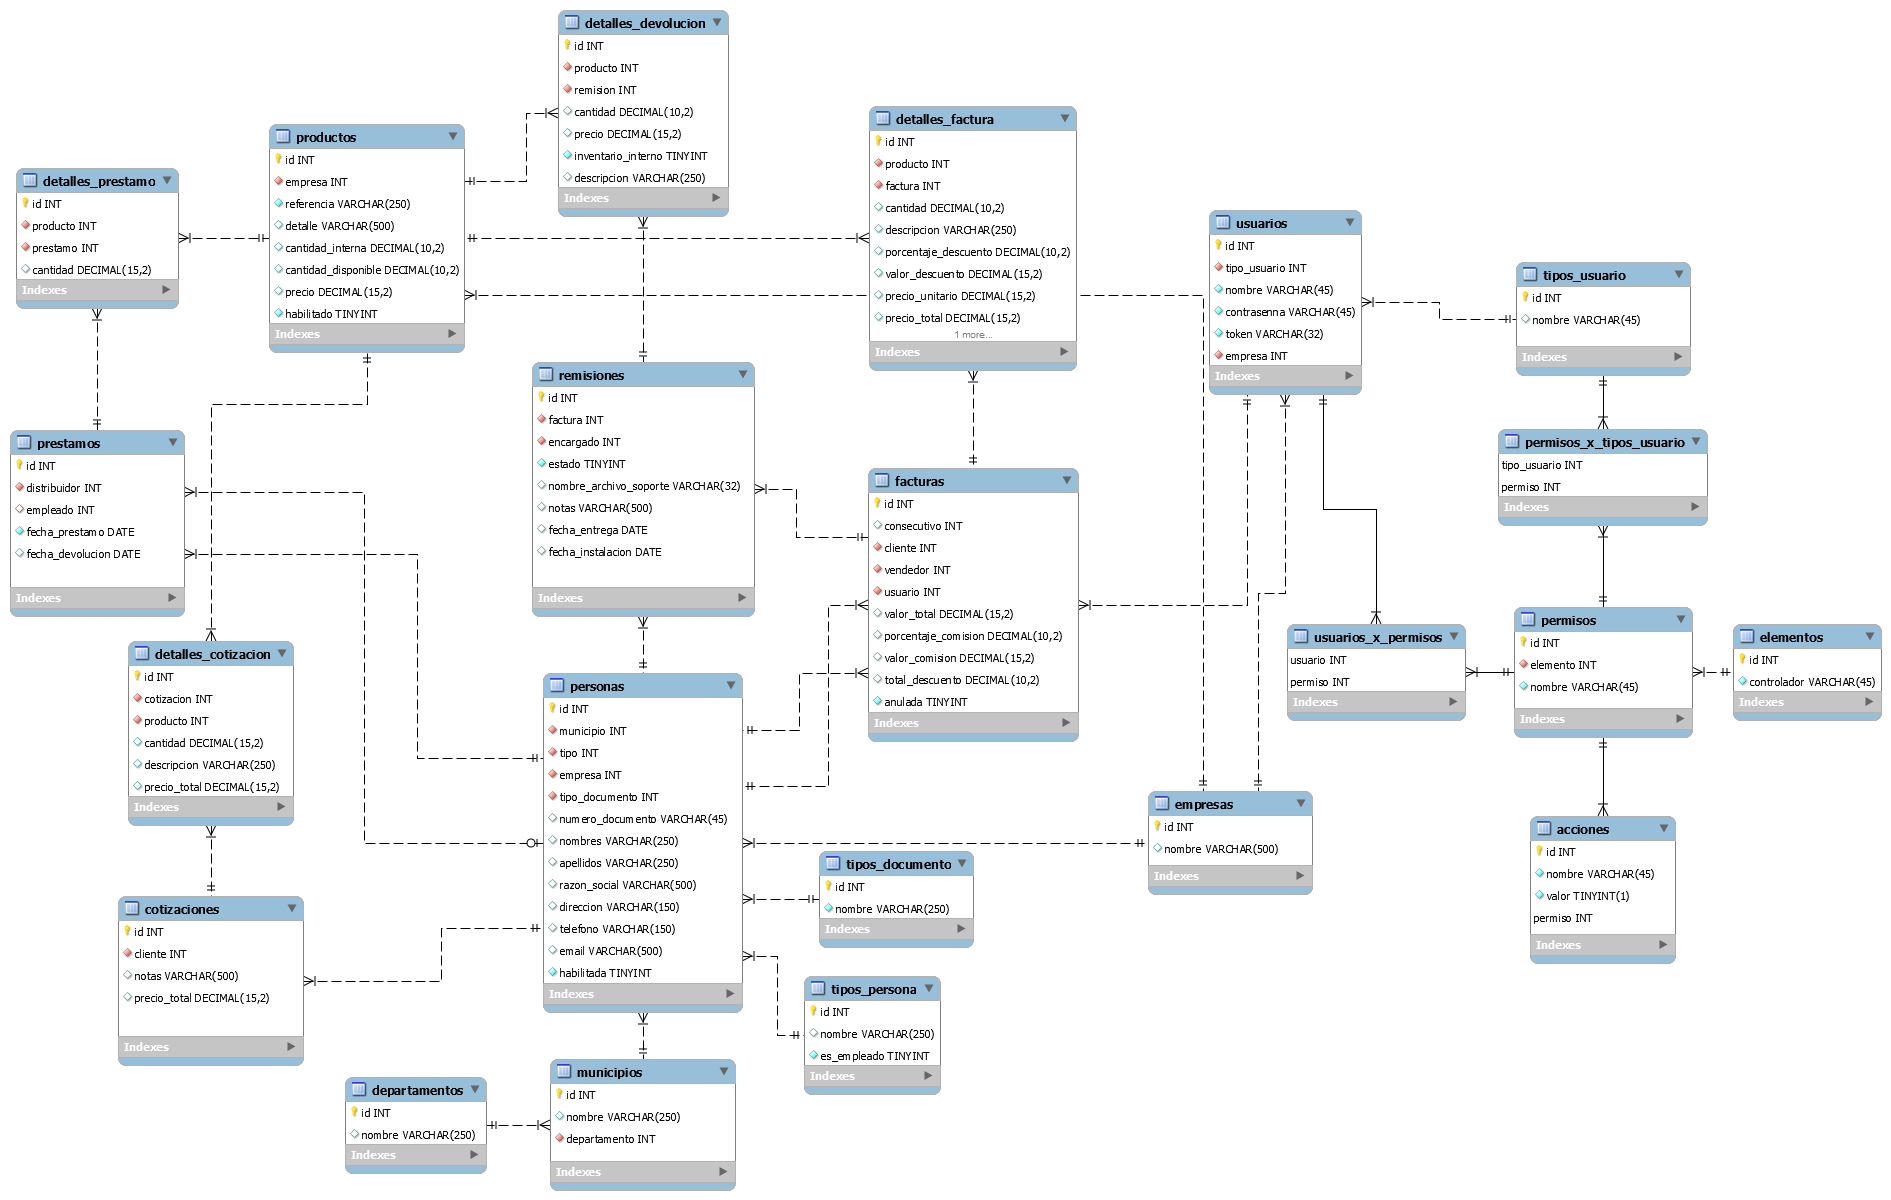
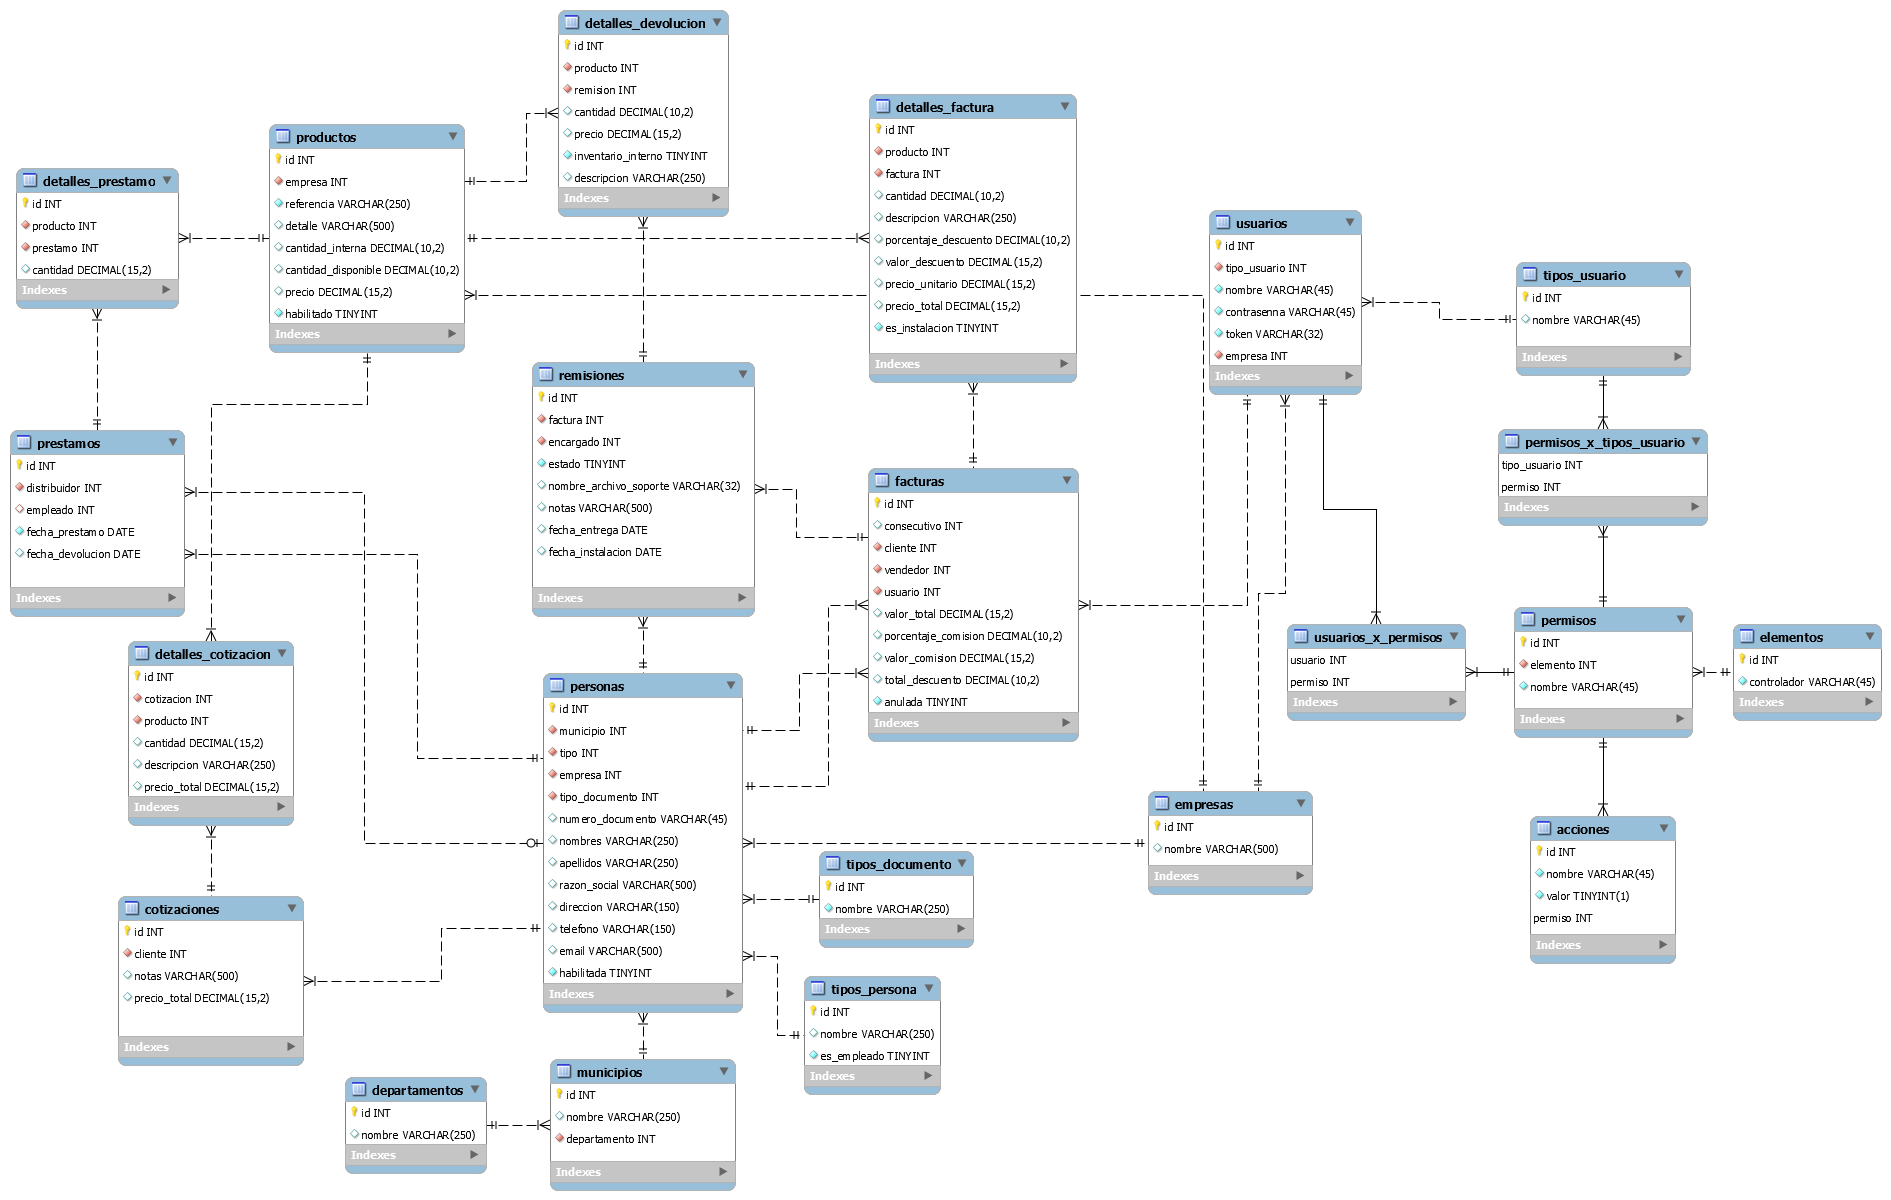
Se crea la funcionalidad de crear detalles de una factura

Changed region(s): [[0.4368, 0.0617, 0.5928, 0.3392]]

diff --git a/Core/Models/DetalleFactura.php b/Core/Models/DetalleFactura.php
@@ -54,6 +54,61 @@
             return $respuesta;
         }
 
+        public static function crearDeFactura($json_detalles, $id_factura)
+        {
+            $detalles = json_decode($json_detalles);
+            $sql = "INSERT INTO detalles_factura 
+                    (
+                        producto,
+                        factura,
+                	    cantidad,
+                	    descripcion,
+                	    porcentaje_descuento,
+                	    valor_descuento,
+                	    precio_unitario,
+                	    precio_total,
+                	    es_instalacion
+                    )
+                    VALUES";
+
+            for ($i=0; $i < \count($detalles); $i++) { 
+                $sql .= "(
+                            {$detalles[$i]->producto->id},
+                            {$id_factura},
+                            {$detalles[0]->cantidad},
+                            '{$detalles[0]->descripcion}',
+                            {$detalles[0]->porcentaje_descuento},
+                            {$detalles[0]->valor_descuento},
+                            {$detalles[0]->precio_unitario},
+                            {$detalles[0]->precio_total},
+                            {$detalles[0]->es_instalacion}
+                        )";
+
+                if($i < \count($detalles) - 1)
+                {
+                    $sql .= ',';
+                }
+                else
+                {
+                    $sql .= ';';
+                }
+            }
+
+            $conexion = new \Conexion();
+            $conexion->execCommand($sql);
+            $respuesta = \Respuesta::obtenerDefault();
+
+            if($conexion->getRegistrosAfectados() > 0)
+            {
+                $respuesta = new \Respuesta([
+                    'resultado' => true,
+                    'datos' => DetalleFactura::consultarDeFactura($id_factura)->datos
+                ]);
+            }
+
+            return $respuesta;
+        }
+
     }
     
 ?>

diff --git a/Core/Models/Factura.php b/Core/Models/Factura.php
@@ -151,7 +151,21 @@
 
             $this->conexion->execCommand($sql);
 
-            return $this->obtenerRespuesta($this, true, false);
+            $respuesta = $this->obtenerRespuesta($this, true, false);
+
+            if($respuesta->resultado)
+            {
+                $respuesta_detalles = \Models\DetalleFactura::crearDeFactura($_POST['detalles'], $this->id);
+
+                if($respuesta_detalles->resultado)
+                {
+                    $this->detalles = $respuesta_detalles->datos;
+                }
+            }
+
+            $respuesta = $this->obtenerRespuesta($this, true, false);
+
+            return $respuesta;
         }
 
         public function anular()

diff --git a/Core/Controllers/Factura.php b/Core/Controllers/Factura.php
@@ -64,6 +64,11 @@
                         $factura->total_descuento = isset($_POST['total_descuento']) ? $_POST['total_descuento'] : 0;
 
                         $respuesta = $factura->crear();
+
+                        if($respuesta->resultado)
+                        {
+                            \Models\DetalleFactura::crearDeFactura($_POST['detalles'], $factura->id);
+                        }
                     }
                 }
                 else if($solicitud == 'anular')
